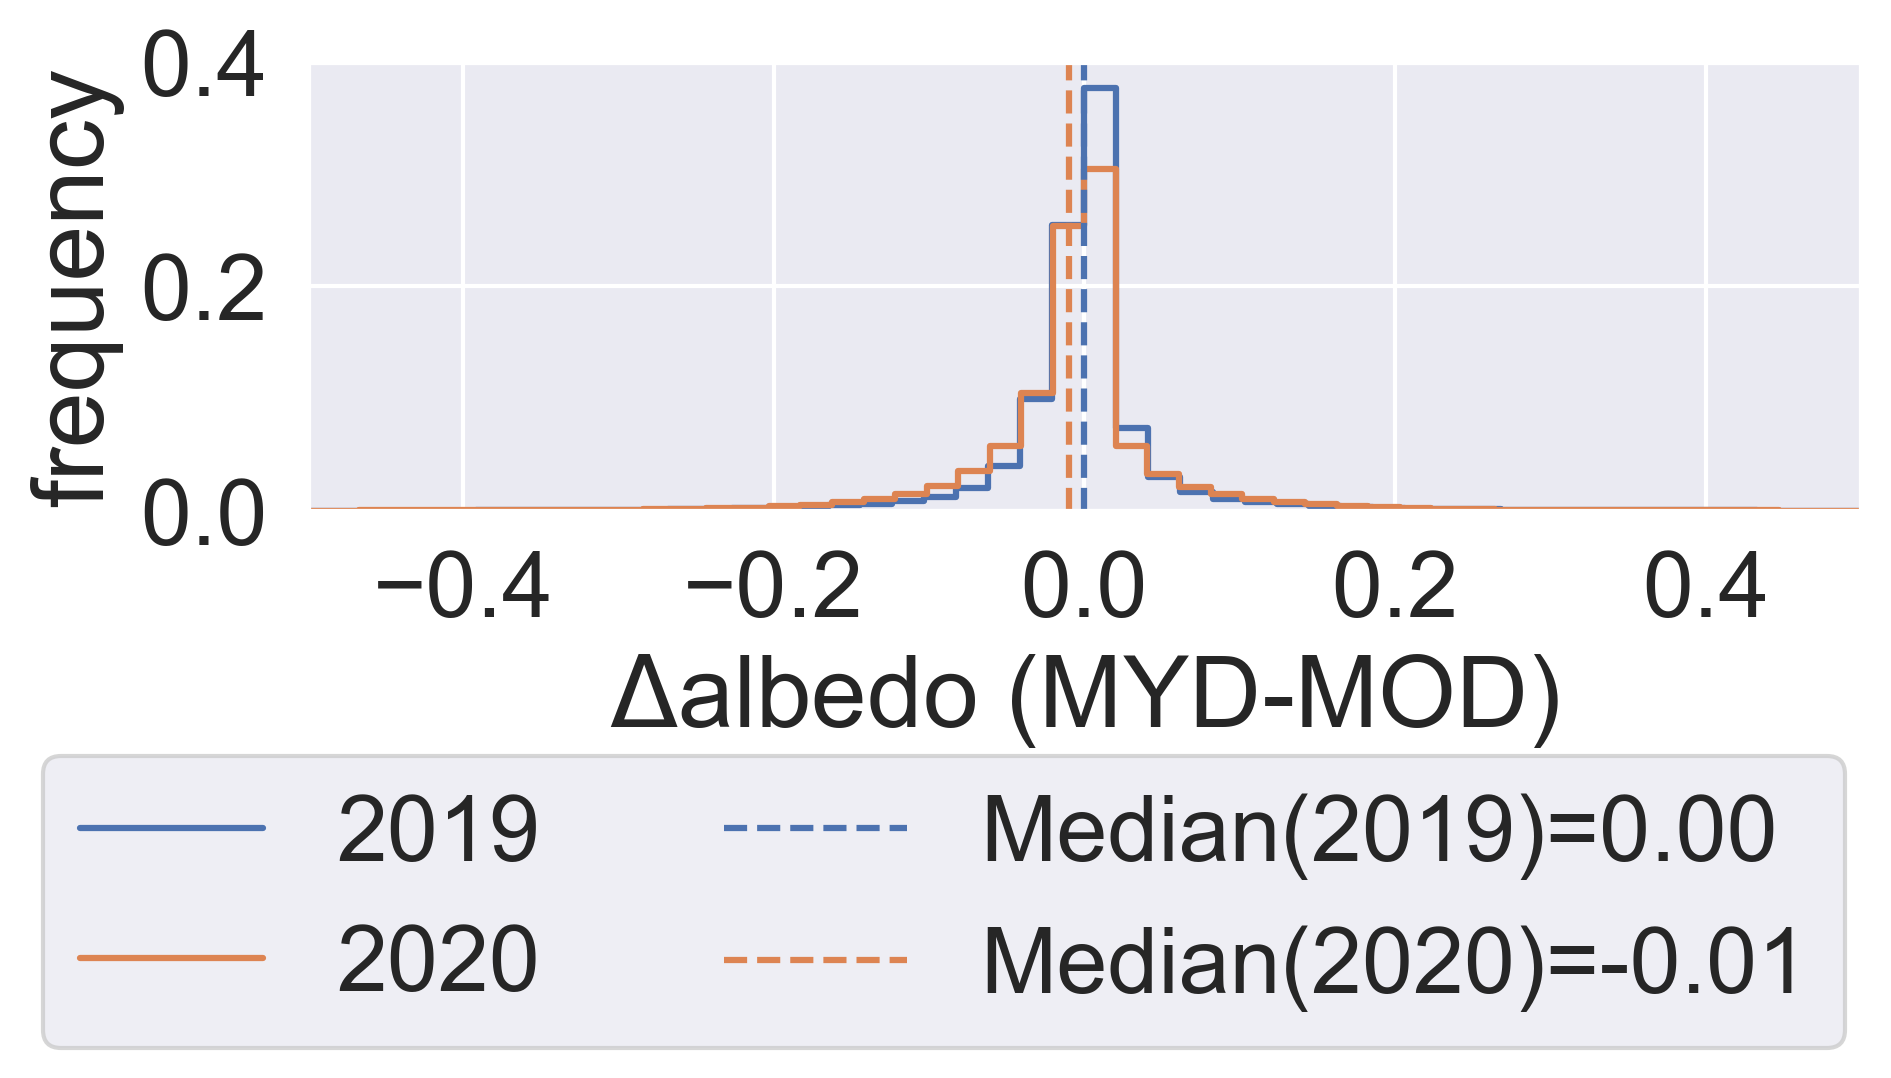
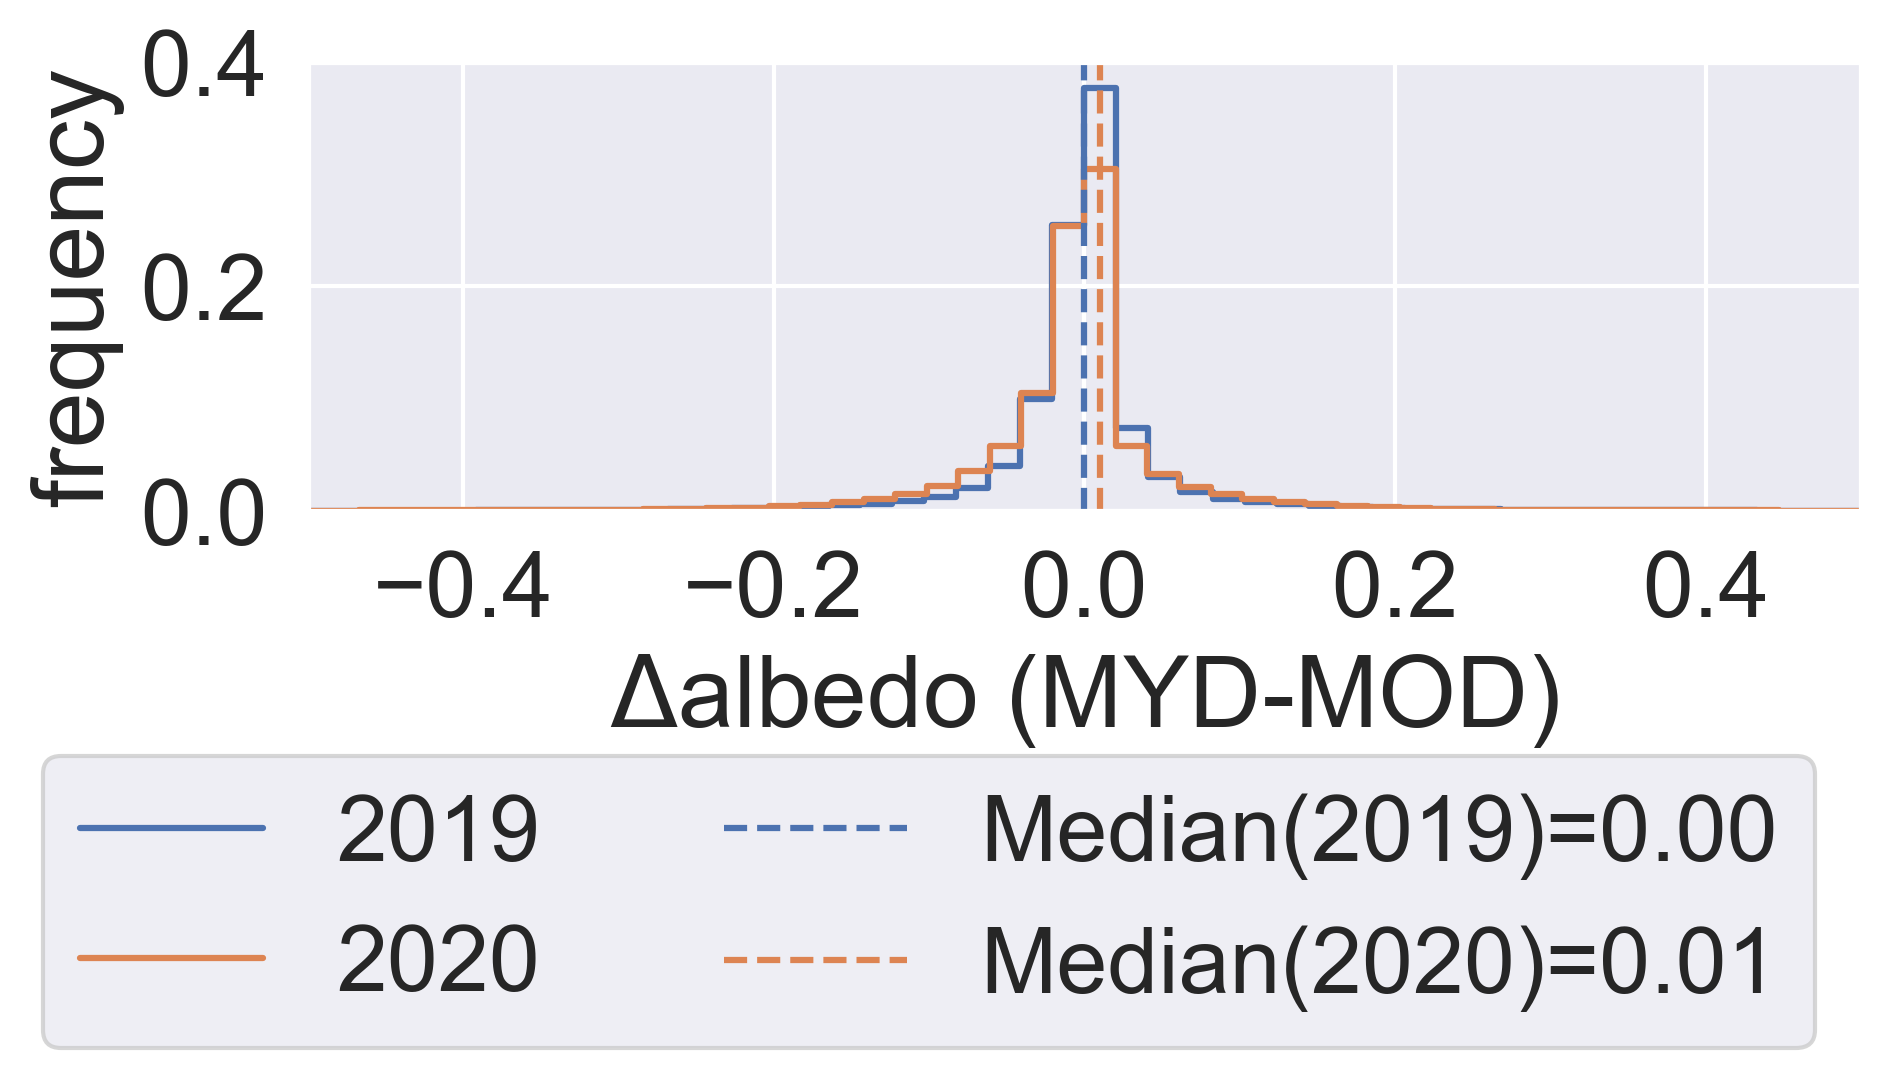
change to mod - myd

Changed region(s): [[0.5616, 0.0612, 0.5928, 0.4592], [0.8424, 0.8571, 0.9672, 0.9184]]

diff --git a/gee/orbitDriftEffect.py b/gee/orbitDriftEffect.py
@@ -80,8 +80,8 @@ df = vx.from_pandas(df)
 '''before orbit drift of terra'''
 df_filtered = df[df.year<2020]
 
-slope, intercept, r_value, p_value, std_err = stats.linregress(df_filtered.albedoMYD.values, df_filtered.albedoMOD.values)
-rma_results = regress2(df_filtered.albedoMYD.values, df_filtered.albedoMOD.values, _method_type_2="reduced major axis")
+slope, intercept, r_value, p_value, std_err = stats.linregress(df_filtered.albedoMOD.values, df_filtered.albedoMYD.values)
+rma_results = regress2(df_filtered.albedoMOD.values, df_filtered.albedoMYD.values, _method_type_2="reduced major axis")
 k = rma_results['slope']
 b = rma_results['intercept'] 
 
@@ -95,12 +95,12 @@ ax.annotate(
     '2002-2019 JJA\nn:%s' % (format(len(df_filtered.albedoMYD.values), ',')), xy=(0.5, 0.15),  
     xycoords='data', horizontalalignment='left', verticalalignment='top'
 )
-df_filtered.viz.heatmap("albedoMYD", "albedoMOD", what=np.log(vx.stat.count()), show=True,
-                        xlabel="MYD albedo", ylabel="MOD albedo")
+df_filtered.viz.heatmap("albedoMOD", "albedoMYD", what=np.log(vx.stat.count()), show=True,
+                        xlabel="MOD albedo", ylabel="MYD albedo")
 print('RMA: \ny={0:.4f}x+{1:.4f}\nRMA_r:{2:.2f} \n k std: {3:.4f} \n b std: {4:.4f}'
       .format(k, b, rma_results['r'], rma_results['std_slope'], rma_results['std_intercept']))
-print('mean bias is: %.4f' % np.mean(df_filtered.albedoMYD.values - df_filtered.albedoMOD.values))      
-print('RMSE is %.4f' % (mean_squared_error(df_filtered.albedoMOD.values, df_filtered.albedoMYD.values, squared=False)))
+print('mean bias is: %.4f' % np.mean(df_filtered.albedoMOD.values - df_filtered.albedoMYD.values))      
+print('RMSE is %.4f' % (mean_squared_error(df_filtered.albedoMYD.values, df_filtered.albedoMOD.values, squared=False)))
 fig.savefig("print/albedo/modis20022020scatter.png", dpi=300, bbox_inches="tight")
 
 
@@ -117,8 +117,8 @@ fig.savefig("print/albedo/modis20022020hist.png", dpi=300, bbox_inches="tight")
 '''after orbit drift of terra'''
 df_filtered = df[df.year==2020]
 
-slope, intercept, r_value, p_value, std_err = stats.linregress(df_filtered.albedoMYD.values, df_filtered.albedoMOD.values)
-rma_results = regress2(df_filtered.albedoMYD.values, df_filtered.albedoMOD.values, _method_type_2="reduced major axis")
+slope, intercept, r_value, p_value, std_err = stats.linregress(df_filtered.albedoMOD.values, df_filtered.albedoMYD.values)
+rma_results = regress2(df_filtered.albedoMOD.values, df_filtered.albedoMYD.values, _method_type_2="reduced major axis")
 k = rma_results['slope']
 b = rma_results['intercept'] 
 
@@ -129,14 +129,14 @@ ax.set_aspect('equal', 'box')
 ax.set_xlim(0,1)
 ax.set_ylim(0,1)
 ax.annotate(
-    '2020 JJA\nn:%s' % (format(len(df_filtered.albedoMYD.values), ',')), xy=(0.5, 0.15),  
+    '2020 JJA\nn:%s' % (format(df_filtered.albedoMYD.count(), ',')), xy=(0.5, 0.15),  
     xycoords='data', horizontalalignment='left', verticalalignment='top'
 )
-df_filtered.viz.heatmap("albedoMYD", "albedoMOD", what=np.log(vx.stat.count()), show=True,
-                        xlabel="MYD albedo", ylabel="MOD albedo")
+df_filtered.viz.heatmap("albedoMOD", "albedoMYD", what=np.log(vx.stat.count()), show=True,
+                        xlabel="MOD albedo", ylabel="MYD albedo")
 print('RMA: \ny={0:.4f}x+{1:.4f}\nRMA_r:{2:.2f} \n k std: {3:.4f} \n b std: {4:.4f}'
       .format(k, b, rma_results['r'], rma_results['std_slope'], rma_results['std_intercept']))
-print('mean bias is: %.4f' % np.mean(df_filtered.albedoMYD.values - df_filtered.albedoMOD.values))   
+print('mean bias is: %.4f' % np.mean(df_filtered.albedoMOD.values - df_filtered.albedoMYD.values))   
 print('RMSE is %.4f' % (mean_squared_error(df_filtered.albedoMOD.values, df_filtered.albedoMYD.values, squared=False)))
 fig.savefig("print/albedo/modis2020scatter.png", dpi=300, bbox_inches="tight")
 
@@ -150,42 +150,7 @@ ax.set_xlim(0,1)
 ax.ticklabel_format(axis="y", style="sci", scilimits=(0,0))
 fig.savefig("print/albedo/modis2020hist.png", dpi=300, bbox_inches="tight")
 
-#%%
-'''after orbit drift of terra'''
-df_filtered = df[df.year>2020]
 
-slope, intercept, r_value, p_value, std_err = stats.linregress(df_filtered.albedoMYD.values, df_filtered.albedoMOD.values)
-rma_results = regress2(df_filtered.albedoMYD.values, df_filtered.albedoMOD.values, _method_type_2="reduced major axis")
-k = rma_results['slope']
-b = rma_results['intercept'] 
-
-fig, ax = plt.subplots(figsize=(8,7))
-ax.plot([0,1], [0,1], '--', color = 'white') # reference line
-ax.plot(np.array([0,1]), k * np.array([0,1]) + b, color='b') # rma regression
-ax.set_aspect('equal', 'box')
-ax.set_xlim(0,1)
-ax.set_ylim(0,1)
-ax.annotate(
-    '2021-2022 JJA\nn:%s' % (format(len(df_filtered.albedoMYD.values), ',')), xy=(0.5, 0.15),  
-    xycoords='data', horizontalalignment='left', verticalalignment='top'
-)
-df_filtered.viz.heatmap("albedoMYD", "albedoMOD", what=np.log(vx.stat.count()), show=True,
-                        xlabel="MYD albedo", ylabel="MOD albedo")
-print('RMA: \ny={0:.4f}x+{1:.4f}\nRMA_r:{2:.2f} \n k std: {3:.4f} \n b std: {4:.4f}'
-      .format(k, b, rma_results['r'], rma_results['std_slope'], rma_results['std_intercept']))
-print('mean bias is: %.4f' % np.mean(df_filtered.albedoMYD.values - df_filtered.albedoMOD.values))   
-print('RMSE is %.4f' % (mean_squared_error(df_filtered.albedoMOD.values, df_filtered.albedoMYD.values, squared=False)))
-fig.savefig("print/albedo/modis20212022scatter.png", dpi=300, bbox_inches="tight")
-
-
-fig, ax = plt.subplots(figsize=(7,3)) #figsize=(8,7)
-df_filtered.viz.histogram("albedoMOD", label="MOD")
-df_filtered.viz.histogram("albedoMYD", label="MYD")
-ax.legend()
-ax.set(xlabel = 'Albedo')
-ax.set_xlim(0,1)
-ax.ticklabel_format(axis="y", style="sci", scilimits=(0,0))
-fig.savefig("print/albedo/modis20212022hist.png", dpi=300, bbox_inches="tight")
 
 #%% orbit drift impact
 '''
@@ -194,7 +159,7 @@ orbit drift impact estimated from MYD
 years = np.arange(2002, 2021)
 for y in years:
     df_filtered = df[df.year==y]
-    df_filtered["diff"] = df_filtered.albedoMYD - df_filtered.albedoMOD
+    df_filtered["diff"] = df_filtered.albedoMOD - df_filtered.albedoMYD
     # df_filtered.viz.histogram("diff", label=str(y))
     print('Year: %d, diff mean=%.4f, diff median=%.4f, RMSE=%.4f' % (
         y, np.mean(df_filtered["diff"].values), 
@@ -210,7 +175,7 @@ df_filtered = df[df.year==2020]
 df_filtered["diff"] = df_filtered.albedoMYD - df_filtered.albedoMOD
 df_filtered.viz.histogram("diff", label="2020", what=vx.stat.count() / len(df_filtered))
 ax.plot([0,0], [0, 0.4], ls='--', label="Median(2019)=0.00", color=(0.2980392156862745, 0.4470588235294118, 0.6901960784313725))
-ax.plot([-0.01,-0.01], [0, 0.4], ls='--', label="Median(2020)=-0.01",  color=(0.8666666666666667, 0.5176470588235295, 0.3215686274509804))
+ax.plot([0.01, 0.01], [0, 0.4], ls='--', label="Median(2020)=0.01",  color=(0.8666666666666667, 0.5176470588235295, 0.3215686274509804))
 # use axvline will remove all xticks except (0,0), weird...
 # ax.axvline(x="0", ls='--', label="Median(2019)=0", color=(0.2980392156862745, 0.4470588235294118, 0.6901960784313725))
 # ax.axvline(x="-0.1", ls='--', label="Median(2020)=-0.01", color=(0.8666666666666667, 0.5176470588235295, 0.3215686274509804))
@@ -239,25 +204,27 @@ stats.ranksums(df[df.year<2020].albedoMYD.values,
 df = pd.merge(left=dfmod, right=dfmyd.drop(columns=["year", "month", "day"]), 
               on=["lat", "lon", "date"]).dropna()
 df = df[np.abs( (df.albedoMOD - df.albedoMYD) / (df.albedoMOD + df.albedoMYD) ) < 0.5]
+df["MOD corrected"] = df.albedoMOD * 0.9844 + 0.0046
 #%%
 df_filtered = df.groupby(["date"]).median()
 
 
 fig, ax = plt.subplots(2,2, sharey='row', figsize=(8,6)) #figsize=(8,7)
 
-sns.scatterplot(ax=ax[0,0], data=df_filtered, x="date", y="albedoMYD", label="MYD", alpha=0.5)
 sns.scatterplot(ax=ax[0,0], data=df_filtered, x="date", y="albedoMOD", label="MOD", alpha=0.5)
-ax[0,0].set_xlim(pd.to_datetime("2019-05-28"), pd.to_datetime("2019-09-03"))
-ax[0,0].set_ylim(0.7, 0.95)
+sns.scatterplot(ax=ax[0,0], data=df_filtered, x="date", y="albedoMYD", label="MYD", alpha=0.5)
+ax[0,0].set_xlim(pd.to_datetime("2019-05-28"), pd.to_datetime("2019-09-04"))
+ax[0,0].set_ylim(0.7, 0.98)
 ax[0,0].legend().remove()
 ax[0,0].xaxis.set_major_formatter(mdates.DateFormatter('%b-%d'))
 ax[0,0].set_xticks(ax[0,0].get_xticks()[::4])
 ax[0,0].set(xlabel="", ylabel="albedo (median)")
 ax[0,0].annotate("a)", xy=(0.85, 0.1),  xycoords='axes fraction')
 
-sns.scatterplot(ax=ax[0,1], data=df_filtered, x="date", y="albedoMYD", label="MYD", alpha=0.5)
 sns.scatterplot(ax=ax[0,1], data=df_filtered, x="date", y="albedoMOD", label="MOD", alpha=0.5)
-ax[0,1].set_xlim(pd.to_datetime("2020-05-28"), pd.to_datetime("2020-09-03"))
+sns.scatterplot(ax=ax[0,1], data=df_filtered, x="date", y="albedoMYD", label="MYD", alpha=0.5)
+# sns.scatterplot(ax=ax[0,1], data=df_filtered, x="date", y="MOD corrected", label="MOD corrected", alpha=0.5)
+ax[0,1].set_xlim(pd.to_datetime("2020-05-28"), pd.to_datetime("2020-09-04"))
 ax[0,1].xaxis.set_major_formatter(mdates.DateFormatter('%b-%d'))
 ax[0,1].set_xticks(ax[0,1].get_xticks()[::4])
 ax[0,1].set(xlabel="")
@@ -271,19 +238,20 @@ df_filtered = df.groupby(["date"]).mean()
 
 # fig, ax = plt.subplots(1,2, sharey='row', figsize=(6,2)) #figsize=(8,7)
 
-sns.scatterplot(ax=ax[1,0], data=df_filtered, x="date", y="albedoMYD", label="MYD", alpha=0.5)
 sns.scatterplot(ax=ax[1,0], data=df_filtered, x="date", y="albedoMOD", label="MOD", alpha=0.5)
-ax[1,0].set_xlim(pd.to_datetime("2019-05-28"), pd.to_datetime("2019-09-03"))
-ax[1,0].set_ylim(0.65, 0.89)
+sns.scatterplot(ax=ax[1,0], data=df_filtered, x="date", y="albedoMYD", label="MYD", alpha=0.5)
+ax[1,0].set_xlim(pd.to_datetime("2019-05-28"), pd.to_datetime("2019-09-04"))
+ax[1,0].set_ylim(0.65, 0.95)
 ax[1,0].legend().remove()
 ax[1,0].xaxis.set_major_formatter(mdates.DateFormatter('%b-%d'))
 ax[1,0].set_xticks(ax[1,0].get_xticks()[::4])
 ax[1,0].set(xlabel="2019", ylabel="albedo (mean)")
 ax[1,0].annotate("c)", xy=(0.85, 0.1),  xycoords='axes fraction')
 
-sns.scatterplot(ax=ax[1,1], data=df_filtered, x="date", y="albedoMYD", label="MYD", alpha=0.5)
 sns.scatterplot(ax=ax[1,1], data=df_filtered, x="date", y="albedoMOD", label="MOD", alpha=0.5)
-ax[1,1].set_xlim(pd.to_datetime("2020-05-28"), pd.to_datetime("2020-09-03"))
+sns.scatterplot(ax=ax[1,1], data=df_filtered, x="date", y="albedoMYD", label="MYD", alpha=0.5)
+# sns.scatterplot(ax=ax[1,1], data=df_filtered, x="date", y="MOD corrected", label="MOD corrected", alpha=0.5)
+ax[1,1].set_xlim(pd.to_datetime("2020-05-28"), pd.to_datetime("2020-09-04"))
 ax[1,1].legend().remove()
 ax[1,1].xaxis.set_major_formatter(mdates.DateFormatter('%b-%d'))
 ax[1,1].set_xticks(ax[1,1].get_xticks()[::4])

diff --git a/gee/randomAlbedoExtraction.py b/gee/randomAlbedoExtraction.py
@@ -231,7 +231,7 @@ def ee_array_to_df(arr, list_of_bands):
     df = pd.DataFrame(df.values[1:], columns=headers)
 
     # Remove rows without data inside.
-    df = df[['longitude', 'latitude', 'time', *list_of_bands]]#.dropna()
+    df = df[['longitude', 'latitude', 'time', *list_of_bands]].dropna()
 
     # Convert the data to numeric values.
     for band in list_of_bands:
@@ -241,13 +241,13 @@ def ee_array_to_df(arr, list_of_bands):
     # df['datetime'] = pd.to_datetime(df['time'], unit='ms')
 
     # Keep the columns of interest.
-    df = df[['time', 'longitude', 'latitude', *list_of_bands]].dropna()
+    df = df[['time', 'longitude', 'latitude', *list_of_bands]]
 
     return df
 
 # %%
-date_start = ee.Date.fromYMD(2021, 1, 1)
-date_end = ee.Date.fromYMD(2022, 12, 31)
+date_start = ee.Date.fromYMD(2020, 1, 1)
+date_end = ee.Date.fromYMD(2020, 12, 31)
 
 # %%
 for i in range(0, len(sampleList)):
@@ -307,13 +307,14 @@ for i in range(0, len(sampleList)):
   pointAlbedo = multiSat.getRegion(aoi, 500).getInfo() # The number e.g. 500 is the buffer size
   dfalbedo = ee_array_to_df(pointAlbedo, ['visnirAlbedo'])
   dfalbedo["id"] = i
-  pointAlbedoFile = '/data/shunan/data/orbit/poiHSA5km.csv'
+  pointAlbedoFile = '/data/shunan/data/orbit/poiHSA500m.csv'
 
+  dfalbedo.to_csv(pointAlbedoFile, mode='a', index=False, header=False)
 
-  if i==0:
-      dfalbedo.dropna().to_csv(pointAlbedoFile, mode='w', index=False, header=True)
-  else:
-      dfalbedo.dropna().to_csv(pointAlbedoFile, mode='a', index=False, header=False)
+  # if i==0:
+  #     dfalbedo.dropna().to_csv(pointAlbedoFile, mode='w', index=False, header=True)
+  # else:
+  #     dfalbedo.dropna().to_csv(pointAlbedoFile, mode='a', index=False, header=False)
 
 
 
